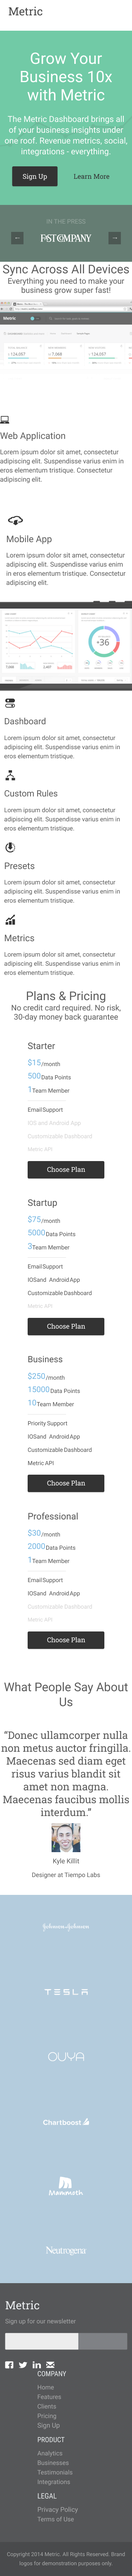
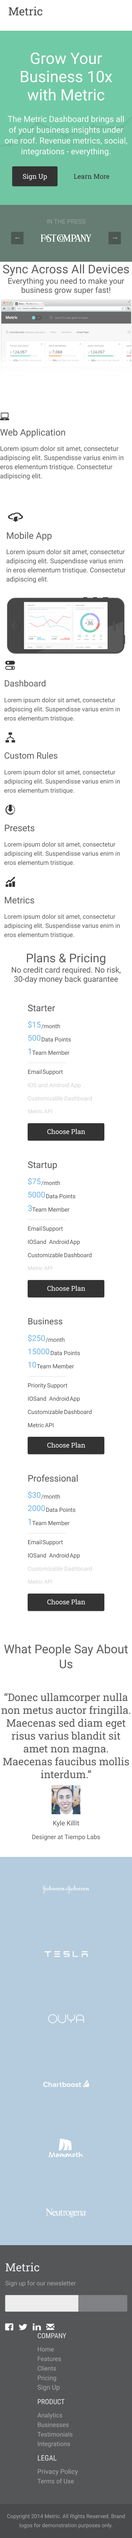
feat: adaption "sync-across-all-devices-section"

Changed region(s): [[0.0, 0.0, 1.0, 0.7491], [0.0312, 0.8428, 0.6562, 0.9989]]

diff --git a/index.html b/index.html
@@ -68,7 +68,7 @@
                 <h3>Everything you need to make your business grow super fast!</h3>
             </div>
             <div class="web-application-box">
-                <img src="images/web-server.png" alt="NotFound" width = "332"  height ="209">
+                <img class="web-responsive-img"src="images/web-server.png" alt="NotFound" width = "332"  height ="209">
                 <div class="web-right-application-box">
                     <img src="images/PC.png" alt="NotFound" width="23" height="18">
                     <h4>Web Application</h4>
@@ -83,7 +83,7 @@
                     <p>Lorem ipsum dolor sit amet, consectetur adipiscing elit. Suspendisse varius enim in eros
                         elementum tristique. Consectetur adipiscing elit.</p>
                 </div>
-                <img src="images/phone.png" alt="NotFound" width= "460" height= "224">
+                <img class="mob-responsive-img" src="images/phone.png" alt="NotFound">
             </div>
             <div class = "mobile-app-property-icons-section">
                 <div><img src="images/mobile-app-property-icons/control-panel-icon.png" alt="NotFound" width="30" height="30">

diff --git a/js/slider-in-the-pass.js b/js/slider-in-the-pass.js
@@ -20,7 +20,7 @@ function swapNext() {
     if (indexImg >= arrImgInThePass.length) {
         indexImg = 0;
     }
-    updateSliderContent();
+    updateSliderContentFromArr();
   }
   
   function swapPrev() {
@@ -29,10 +29,10 @@ function swapNext() {
     if (indexImg < 0) {
         indexImg = arrImgInThePass.length - 1;
     }
-    updateSliderContent();
+    updateSliderContentFromArr();
   }
   
-  function updateSliderContent() {
+  function updateSliderContentFromArr() {
     console.log(indexImg);
     let img1 = document.querySelector('#img1-in-the-pass');
     let img2 = document.querySelector('#img2-in-the-pass');

diff --git a/css/css.css b/css/css.css
@@ -94,8 +94,8 @@ body{
     gap: 10px;
     justify-content: center;
     align-items: center;
-    flex-wrap: wrap;
     align-self: stretch;
+
 }
 .web-right-application-box {
     display: flex;
@@ -124,9 +124,12 @@ body{
     display: flex;
     justify-content: center;
     gap: 30px;
+    padding: 0px 15px;
+
 }
 .mobile-app-property-icons-section {
     display: flex;
+    flex-wrap: wrap;
 }
 .pricing-plans-section {
     display: flex;
@@ -134,6 +137,7 @@ body{
     gap: 10px;
     padding: 10px;
     align-items: center;
+    flex-wrap: wrap;
 
 }
 .plans-and-pricing-header {

diff --git a/css/styles_elements.css b/css/styles_elements.css
@@ -403,3 +403,13 @@ line-height: 22px;
     cursor: pointer;
     z-index: 10;
 }
+.mob-responsive-img {
+    width: 100%;
+    height: auto;
+    max-width: 460px;
+}
+.web-responsive-img {
+    width: 100%;
+    height: auto;
+    max-width: 332px;
+}

diff --git a/css/media.css b/css/media.css
@@ -28,3 +28,14 @@
             display: none;
         }
     }
+@media(max-width: 517px) {
+    .web-application-box {
+        flex-wrap: wrap;
+    }
+}
+
+@media(max-width: 648px) {
+    .mobile-app-box {
+        flex-wrap: wrap;
+    }
+}
